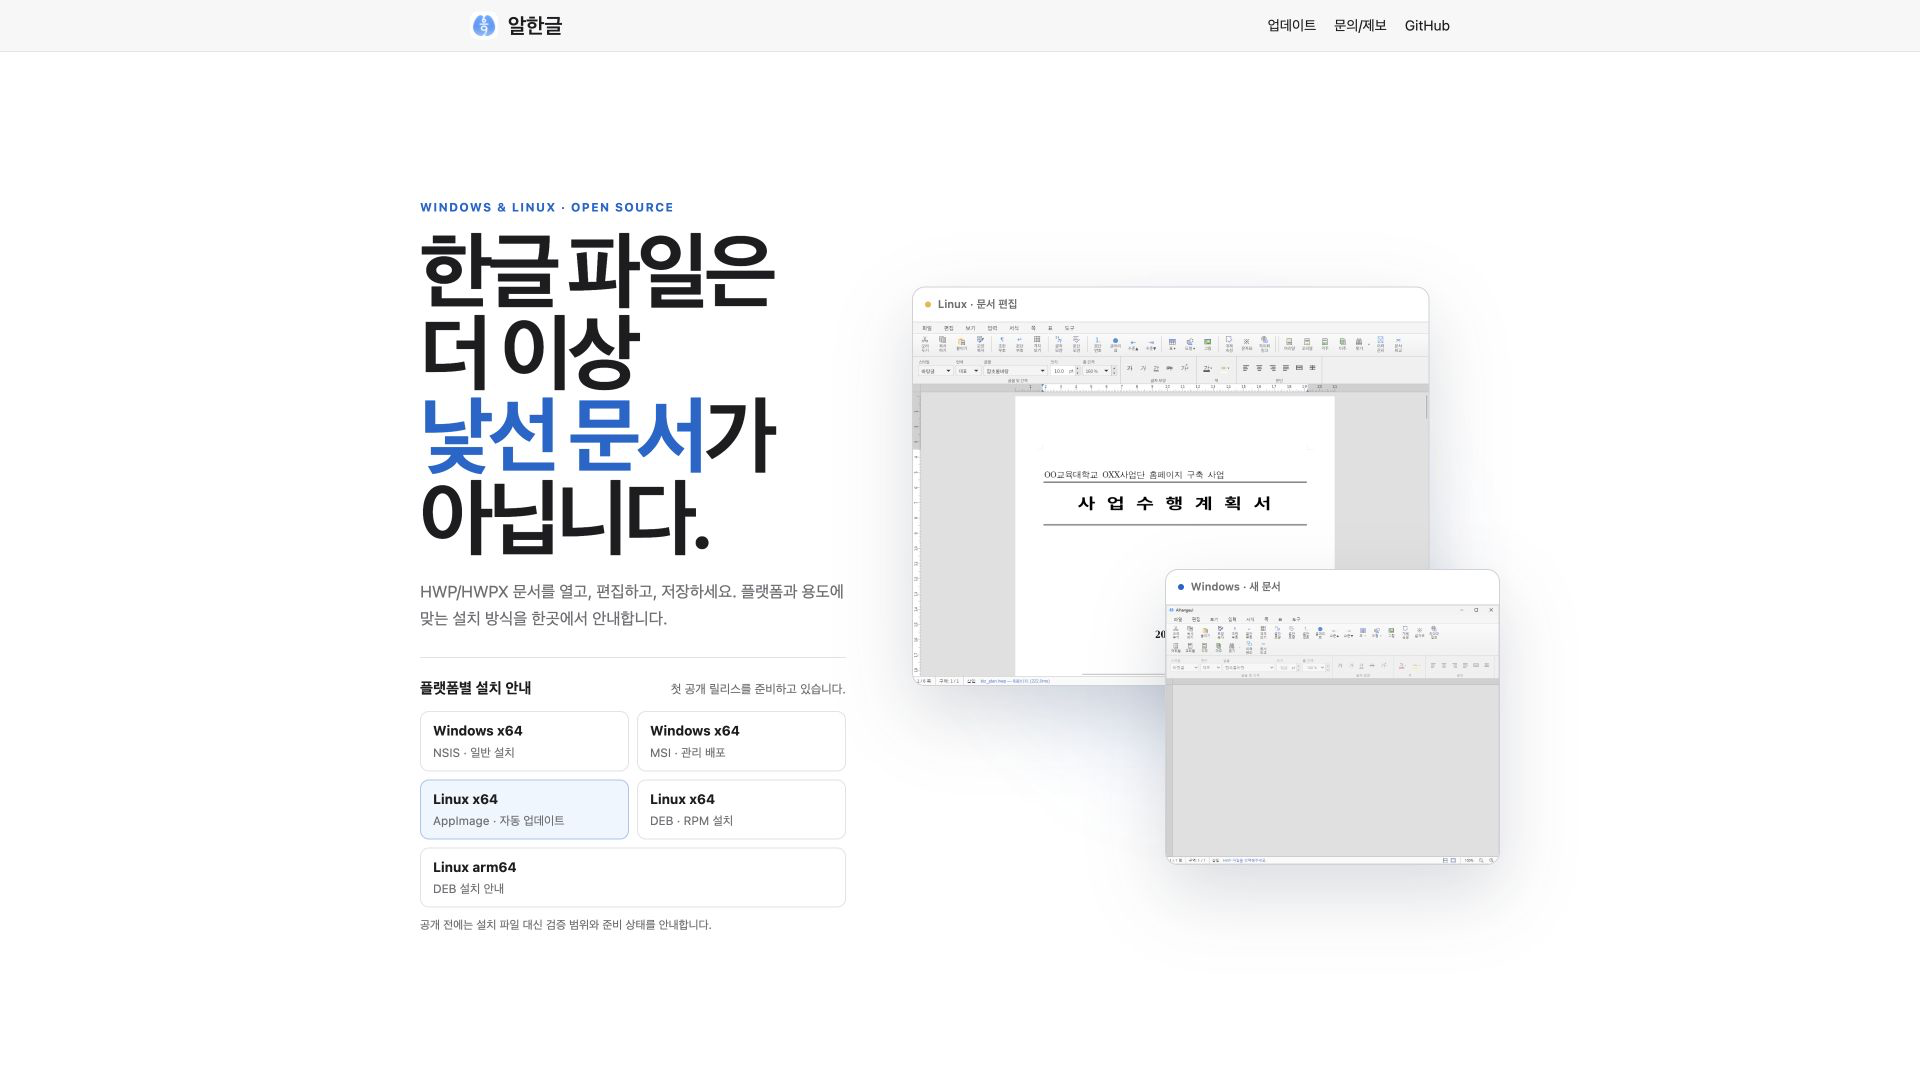
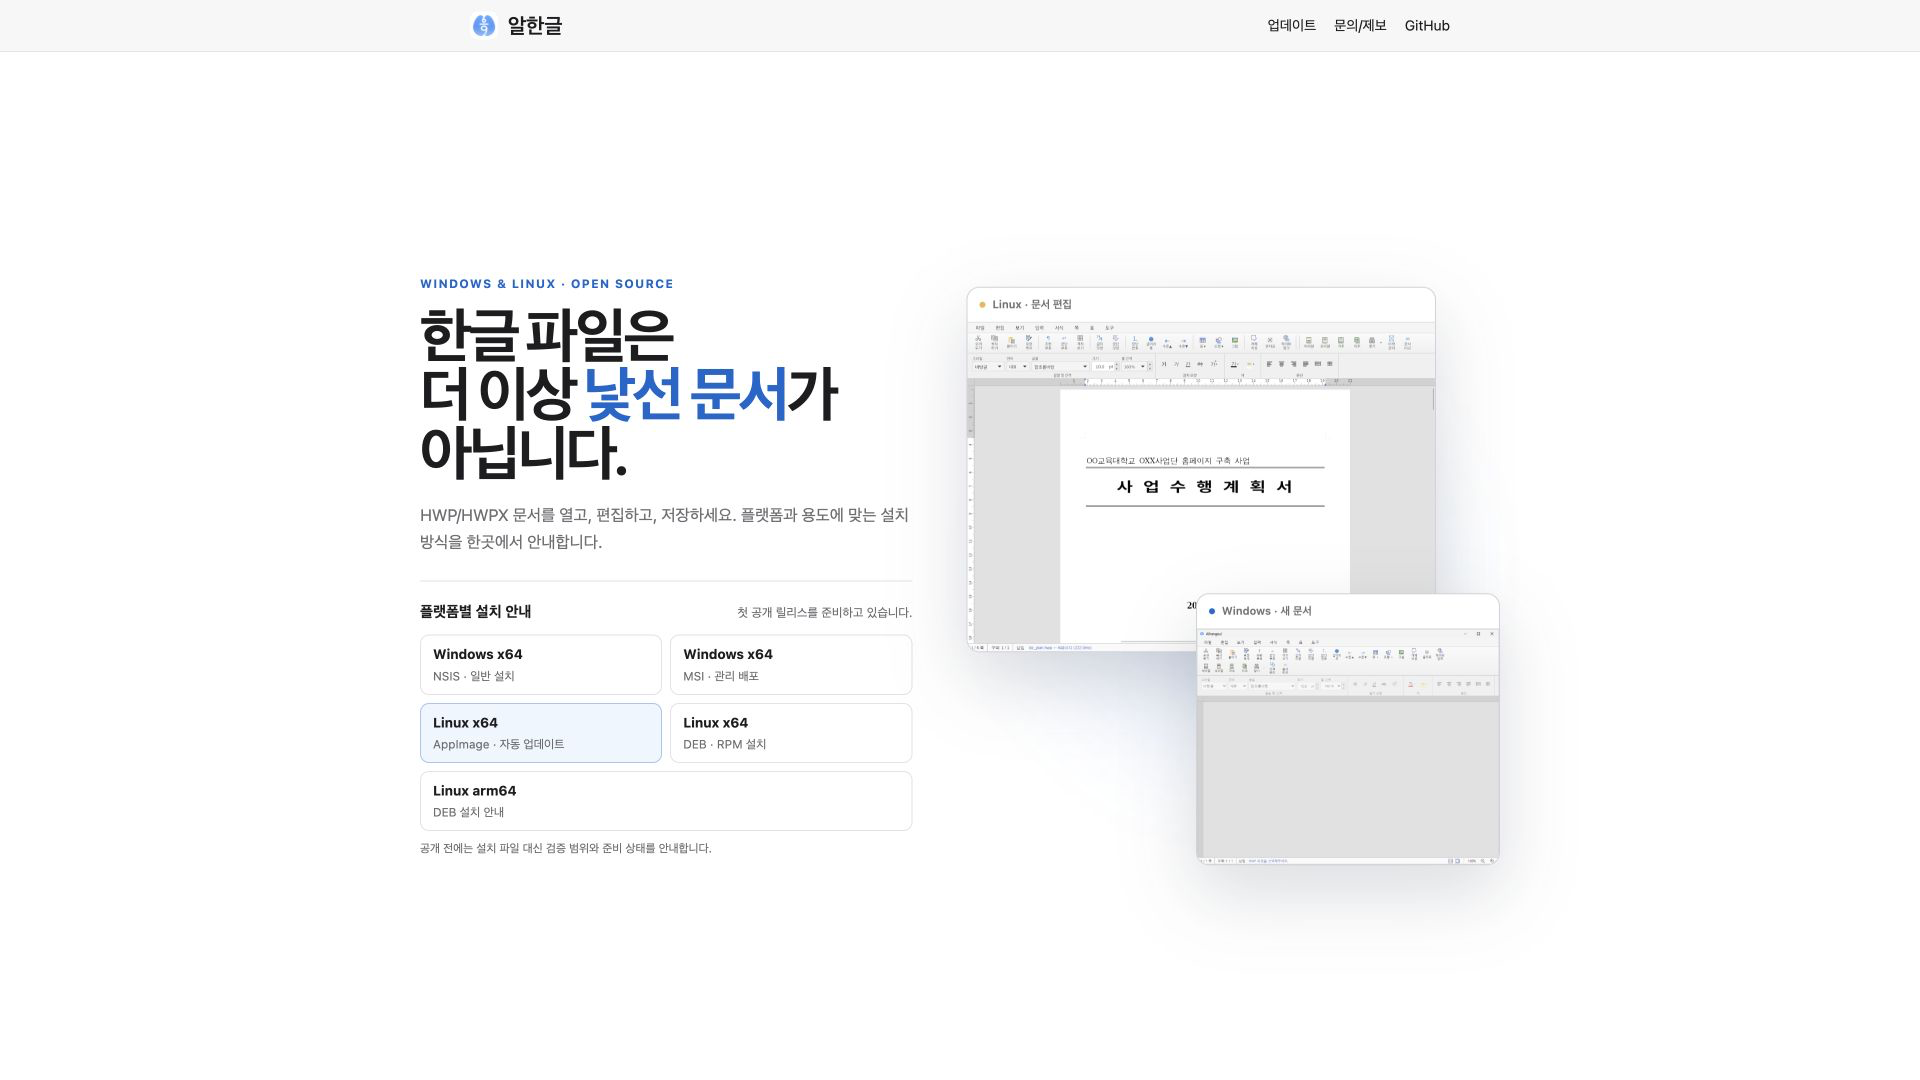
Task #45 [Stage 3.2]: 홈 제목과 다운로드 아이콘 보정

Changed region(s): [[0.2188, 0.1833, 0.7812, 0.825]]

diff --git a/site/styles.css b/site/styles.css
@@ -15,7 +15,7 @@
 
 * { box-sizing: border-box; }
 html { min-width: 320px; background: var(--paper); }
-body { min-width: 320px; margin: 0; color: var(--ink); font-family: system-ui, -apple-system, BlinkMacSystemFont, "SF Pro Display", "SF Pro Text", "Apple SD Gothic Neo", sans-serif; font-size: 17px; line-height: 1.47; }
+body { min-width: 320px; margin: 0; color: var(--ink); font-family: system-ui, sans-serif; font-size: 17px; line-height: 1.47; }
 a { color: inherit; }
 button, a, summary { -webkit-tap-highlight-color: transparent; }
 button { font: inherit; }
@@ -33,9 +33,10 @@ button { font: inherit; }
 
 .home-page { overflow: hidden; }
 .home-main { height: calc(100dvh - 52px); min-height: 648px; padding: 34px 20px; overflow: hidden; }
-.home-shell { display: grid; width: min(1080px, 100%); height: 100%; grid-template-columns: minmax(410px, 0.84fr) minmax(0, 1.16fr); align-items: center; gap: clamp(34px, 5vw, 66px); margin: auto; }
+.home-shell { display: grid; width: min(1080px, 100%); height: 100%; grid-template-columns: minmax(470px, 0.96fr) minmax(0, 1.04fr); align-items: center; gap: clamp(30px, 4vw, 54px); margin: auto; }
 .eyebrow { margin: 0 0 13px; color: var(--blue); font-size: 0.74rem; font-weight: 700; letter-spacing: 0.12em; text-transform: uppercase; }
-.home-copy h1 { margin: 0; font-size: clamp(3.15rem, 5.7vw, 5.25rem); font-weight: 650; line-height: 0.98; letter-spacing: -0.055em; }
+.home-copy h1 { margin: 0; font-size: clamp(3rem, 4.45vw, 3.75rem); font-weight: 650; line-height: 0.98; letter-spacing: -0.055em; }
+.headline-line { display: block; white-space: nowrap; }
 .home-copy h1 em { display: inline-block; color: var(--blue); font-style: normal; white-space: nowrap; }
 .home-summary { max-width: 560px; margin: 20px 0 0; color: var(--muted); font-size: 1.02rem; line-height: 1.65; }
 .install-panel { margin-top: 25px; padding-top: 19px; border-top: 1px solid var(--line); }
@@ -72,7 +73,8 @@ button { font: inherit; }
 .page-action-button::-webkit-details-marker { display: none; }
 .page-secondary-link { border: 1px solid var(--line); background: transparent; }
 .download-picker { position: relative; }
-.download-chevron { font-size: 17px; transition: transform var(--quick) var(--ease); }
+.download-chevron { display: block; width: 16px; height: 16px; flex: 0 0 16px; transition: transform var(--quick) var(--ease); }
+.download-chevron path { fill: none; stroke: currentcolor; stroke-width: 1.8; stroke-linecap: round; stroke-linejoin: round; }
 .download-picker[open] .download-chevron { transform: rotate(180deg); }
 .download-options { position: absolute; z-index: 20; top: 50px; left: 0; display: grid; width: 310px; gap: 4px; padding: 8px; border: 1px solid var(--line); border-radius: 12px; background: white; box-shadow: 0 16px 42px rgba(0, 0, 0, 0.14); text-align: left; }
 .download-option { display: flex; min-height: 54px; align-items: center; justify-content: space-between; gap: 18px; padding: 9px 11px; border-radius: 8px; text-decoration: none; }
@@ -123,7 +125,7 @@ a.download-option:hover { background: var(--blue-soft); }
     .header-link { font-size: 12px; }
     .home-main { height: calc(100dvh - 52px); min-height: 648px; padding: 25px 14px; }
     .home-shell { display: block; width: min(520px, 100%); }
-    .home-copy h1 { font-size: clamp(2.35rem, 11vw, 3.6rem); }
+    .home-copy h1 { font-size: clamp(2.1rem, 10vw, 2.85rem); }
     .home-summary { margin-top: 14px; font-size: 0.92rem; }
     .install-panel { margin-top: 18px; padding-top: 15px; }
     .install-heading { display: block; }

diff --git a/site/updates/index.html b/site/updates/index.html
@@ -32,7 +32,12 @@
                 <p data-release-message>앱의 업데이트 지원을 준비하고 있으며, 첫 공개 릴리스가 게시되면 Windows와 Linux 설치 파일을 웹에서 직접 받을 수 있습니다.</p>
                 <div class="updates-actions" aria-label="업데이트 주요 링크">
                     <details class="download-picker">
-                        <summary class="page-action-button">최신 버전 다운로드 <span class="download-chevron" aria-hidden="true">⌄</span></summary>
+                        <summary class="page-action-button">
+                            최신 버전 다운로드
+                            <svg class="download-chevron" viewBox="0 0 16 16" width="16" height="16" aria-hidden="true" focusable="false">
+                                <path d="m4 6 4 4 4-4"></path>
+                            </svg>
+                        </summary>
                         <div class="download-options" aria-label="플랫폼별 다운로드">
                             <span class="download-option" aria-disabled="true" data-download-target="windows-x86_64-nsis"><strong>Windows x64</strong><span data-download-state>NSIS · 준비 중</span></span>
                             <span class="download-option" aria-disabled="true" data-download-target="windows-x86_64-msi"><strong>Windows x64</strong><span data-download-state>MSI · 준비 중</span></span>

diff --git a/site/index.html b/site/index.html
@@ -39,7 +39,11 @@
             <section class="home-shell" aria-labelledby="home-title">
                 <div class="home-copy page-enter">
                     <p class="eyebrow">Windows &amp; Linux · Open source</p>
-                    <h1 id="home-title">한글 파일은<br />더 이상 <em>낯선 문서</em>가 아닙니다.</h1>
+                    <h1 id="home-title">
+                        <span class="headline-line">한글 파일은</span>
+                        <span class="headline-line">더 이상 <em>낯선 문서</em>가</span>
+                        <span class="headline-line">아닙니다.</span>
+                    </h1>
                     <p class="home-summary">HWP/HWPX 문서를 열고, 편집하고, 저장하세요. 플랫폼과 용도에 맞는 설치 방식을 한곳에서 안내합니다.</p>
 
                     <section class="install-panel" aria-labelledby="install-title">

diff --git a/mydocs/working/task_m010_45_stage3.md b/mydocs/working/task_m010_45_stage3.md
@@ -22,24 +22,29 @@ system font, 72px/40px 제목, 21px hero 본문, 880px 콘텐츠 폭과 section 
 최신 버전 다운로드는 플랫폼 dropdown으로 제공하고, 공개 전 릴리즈 노트 placeholder와 published
 상태의 exact GitHub Release note hydration을 추가했다.
 
+Stage 3.2 피드백 보정에서는 홈 제목을 단어 중간 줄바꿈이 생기지 않는 세 줄로 고정하고 desktop
+최대 글자 크기를 60px, 390px 화면 글자 크기를 39px로 낮췄다. 업데이트 다운로드 버튼의 문자
+꺾쇠는 16×16 SVG 아이콘으로 교체하고 flex 중앙 정렬과 열림 상태 회전을 유지했다. 지원 범위
+검사에서 발견한 platform 전용 font alias는 제거했으며 `system-ui` 렌더링은 그대로 유지한다.
+
 ## 산출물
 
 | 파일 | 변경 요약 |
 |---|---|
-| `site/index.html` (75줄) | 단일 viewport hero, Windows/Linux 실제 화면, 5개 플랫폼별 설치 안내로 홈 재구성 |
-| `site/updates/index.html` (80줄) | 참고 페이지 구조의 hero, 플랫폼 다운로드 dropdown, 설치 형식·릴리즈 노트·manifest 안내 |
+| `site/index.html` (79줄) | 단어 중간 줄바꿈 없는 3줄 제목, Windows/Linux 실제 화면, 5개 플랫폼별 설치 안내로 홈 재구성 |
+| `site/updates/index.html` (85줄) | 참고 페이지 구조의 hero, SVG 꺾쇠가 있는 플랫폼 다운로드 dropdown, 설치 형식·릴리즈 노트·manifest 안내 |
 | `site/feedback/index.html` (51줄) | 개인정보 주의, email 복사/작성, GitHub Issue와 rhwp upstream 분류 안내 |
-| `site/styles.css` (148줄) | system font와 참고 updates의 exact desktop/mobile type scale, dropdown, release list 구현 |
+| `site/styles.css` (150줄) | 지원 범위 중립 system font, 축소한 홈 제목, SVG dropdown icon, 참고 updates type scale 구현 |
 | `site/script.js` (92줄) | unpublished 내부 안내와 published 홈·dropdown exact artifact 전환, release note hydration 공유 |
-| `site/assets/og-main.png` (1,920×1,080, 341,585 bytes) | system font와 header 보정을 반영한 공유 이미지 재생성 |
+| `site/assets/og-main.png` (1,920×1,080, 302,354 bytes) | 세 줄로 축소한 홈 제목을 반영한 공유 이미지 재생성 |
 | `scripts/build-pages.mjs` (152줄) | 중첩 페이지의 root asset 경로를 depth에 맞춰 결정적으로 정규화 |
 | `scripts/check-pages.mjs` (235줄) | 홈·업데이트·문의 필수 파일과 내부 hash 대상 존재 검사를 추가 |
 | `tests/pages.test.mjs` (282줄) | 중첩 asset 출력, broken hash와 필수 페이지 누락 회귀 검사 추가 |
-| `tests/pages-design.test.mjs` (263줄) | 원본 type scale, dropdown·release list와 published direct-download 실행 계약 추가 |
+| `tests/pages-design.test.mjs` (271줄) | 홈 3줄 제목·SVG icon·type scale, dropdown·release list와 direct-download 계약 추가 |
 | `mydocs/orders/20260827.md` | Stage 3 완료와 Stage 4 승인 대기로 진행 상태 갱신 |
 
 공유 이미지 SHA-256은
[2 lines of base64/hex data omitted]
 lockfile은 변경하지 않았고 모든 text source는 권장 300줄 상한 이하다.
 
 ## 본문 변경 정도 / 본문 무손실 여부
@@ -59,7 +64,8 @@ Stage 3 신규 페이지는 구현계획서의 사용자 문서 위치인 `site/
 ```bash
 pnpm run build:pages
 pnpm run check:pages
-node --test tests/pages.test.mjs tests/actions-workflows.test.mjs
+node --test tests/pages-design.test.mjs tests/pages.test.mjs tests/release-metadata.test.mjs
+pnpm run check:product-boundary
 pnpm run test:automation
 git diff --check
 ```
@@ -68,7 +74,8 @@ git diff --check
 
 - OK — Pages build: source 11개와 승인 root asset 4개를 `_site`에 생성
 - OK — Pages check: source 11개, output 15개; 세 필수 페이지·내부 hash·asset·manifest 계약 통과
-- OK — Pages/Actions focused test 42개 통과, 실패·skip 없음
+- OK — Pages design/build/release metadata focused test 40개 통과, 실패·skip 없음
+- OK — 제품 경계 269파일 통과; Windows/Linux 지원 범위 밖 font identifier 없음
 - OK — 전체 automation test 254개 통과, 실패·skip 없음
 - OK — 변경 파일 whitespace 오류 없음
 - OK — output에 MSI·NSIS·AppImage direct URL과 `updater/stable.json` 없음
@@ -77,12 +84,16 @@ git diff --check
 
 - OK — `http://127.0.0.1:4173/`에서 홈 1,280×900과 390×844 모두
   `scrollWidth=innerWidth`, `scrollHeight=innerHeight`; 스크롤 없는 한 화면 확인
+- OK — 홈 제목은 두 viewport 모두 정확히 3줄이며 1,280px에서 56.96px, 390px에서 39px;
+  가장 긴 둘째 줄의 실제 폭은 각각 394.55/270.66px로 493.82/362px 컨테이너 안에 유지
 - OK — 모바일 홈은 실제 제품 화면을 숨기고 제목·설명·다섯 설치 안내를 390px 안에 유지
 - OK — header의 업데이트·문의/제보·GitHub와 하위 페이지의 홈 교차 이동 확인; header 다운로드 없음
 - OK — unreleased 홈의 세 직접 다운로드 대상은 내부 설치 안내로 이동하고 수동 package 두 항목과 분리
 - OK — published fixture 실행 시 홈과 dropdown이 exact tag의 NSIS·MSI·AppImage URL로 직접 전환
 - OK — updates는 system font, 제목 72px/40px, 본문 21px/18px, content 880px/350px로 참고 페이지와 정렬
 - OK — 플랫폼 설치 카드는 0개이며 native `<details>` dropdown 세 항목과 릴리즈 노트 목록 확인
+- OK — 666×863 updates에서 SVG icon은 16×16px, 버튼 높이는 42px, 세로 중심 오차는 0px;
+  dropdown open 상태에서도 horizontal overflow 없음
 - OK — updates/feedback 1,280px와 390px에서 horizontal overflow 없음; 모바일 dropdown은 left 20px, right 330px
 - OK — 200% 확대에 해당하는 640×450 저높이 조건에서 horizontal overflow 없이 의도한 세로 scroll fallback
 - OK — semantic native link/button, skip link, 44px header target, focus-visible와 heading/landmark DOM 확인

diff --git a/mydocs/orders/20260827.md b/mydocs/orders/20260827.md
@@ -8,5 +8,5 @@
 | #14 | Windows Explorer thumbnail provider | 보류 | 첫 릴리스 필수 범위에서 제외 |
 | #17 | Linux file manager thumbnailer | 보류 | 첫 릴리스 필수 범위에서 제외 |
 | #35 | Windows GUI E2E exact-SHA acceptance 자동화 | 보류 | Stage 2 보존, 첫 릴리스 범위에서 제외하고 추가 Actions 실행 중단 |
-| #45 | Windows/Linux 릴리스·업데이트용 GitHub Pages 재구성 | 진행중 | Stage 3.1 디자인·다운로드 보정 완료, Stage 4 승인 대기 |
+| #45 | Windows/Linux 릴리스·업데이트용 GitHub Pages 재구성 | 진행중 | Stage 3.2 홈 제목·다운로드 아이콘 보정 완료, Stage 4 승인 대기 |
 | #16 | MSI·NSIS·AppImage updater 도입 | 예정 | #24와 #45 URL 계약 뒤 task-start 승인 대기 |
